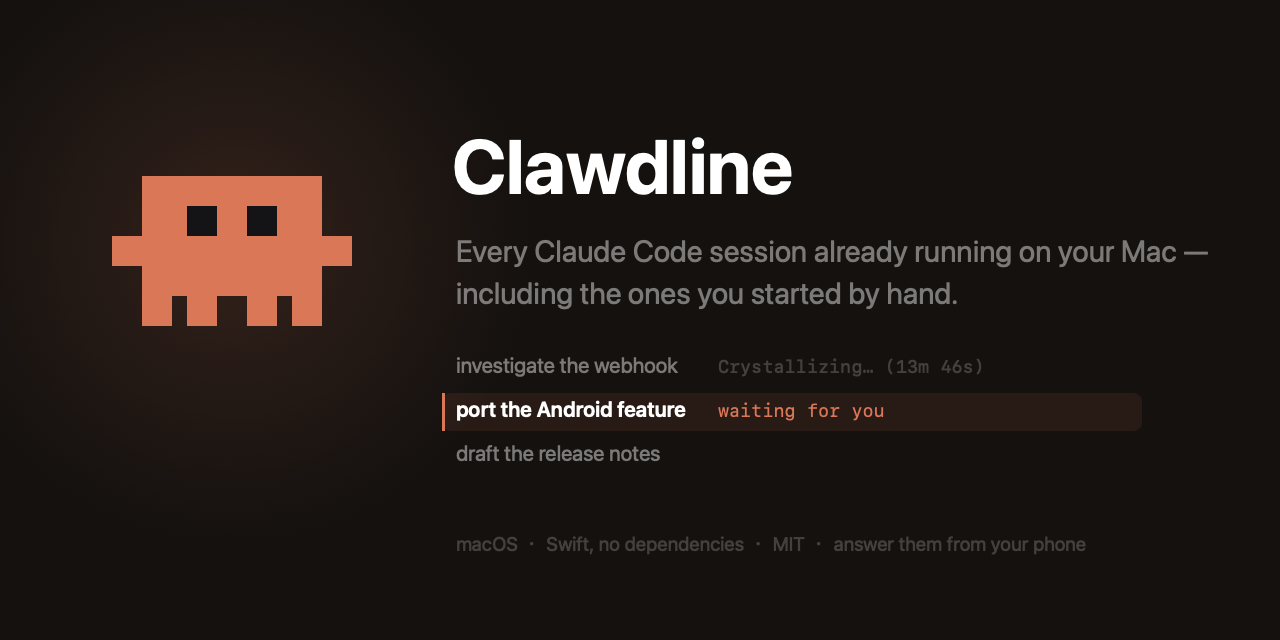
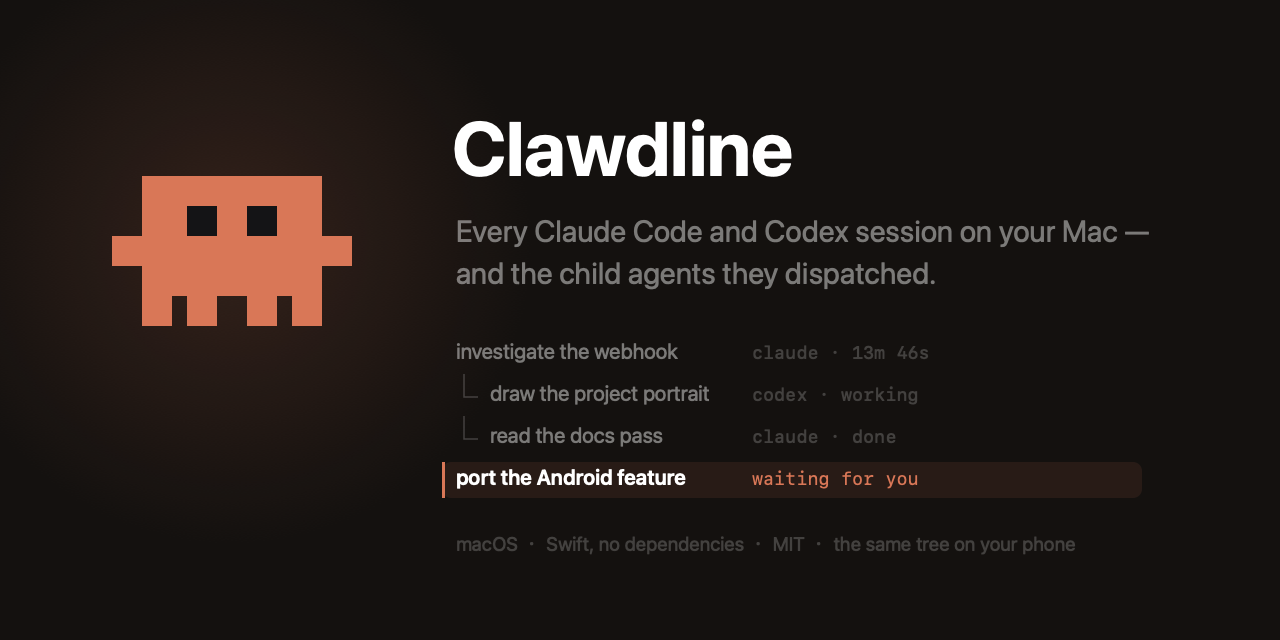
docs: the README leads with the fleet and the tree, not with one input bar
The rarest thing this does had been sitting at line 250. Every phone client for
Claude Code shows the sessions it started itself; what nothing else shows is the
shape — a session that sent work away, the children it sent, which assistant each
one is, and which of them is waiting on you. So the front of the README is that
now, and the picture at the top is the tree rather than a message being typed.

- the tagline, the opening two paragraphs and the hero picture are about the
  fleet: five agents, two of them dispatched by another session, and a row of
  tab titles that cannot draw the relation between them
- the feature table gains a first row for the tree, and the row after it stops
  repeating the sentence that row now carries
- "Handing work to another session" moves from after the phone section to
  between the features and Install, and grows from two paragraphs to five: which
  assistant can be the child, why a child is a row and not a job id, the cost it
  reports back, the credential dispatching sits behind, and depth of one
- two new pictures, both reproducible: `./tools/shoot-assets.sh fleet-phone
  fleet-wide` waits for the page's orchestrator frame to land before shooting,
  because before it does the list is flat and a flat list is what these refute
- the social card shows a root with two indented children instead of three
  unrelated rows, and says Codex out loud
- README.zh-TW.md carries all of it
[…]

diff --git a/tools/shoot-web.js b/tools/shoot-web.js
@@ -421,6 +421,66 @@ function makeStage(cdp, session) {
 
 /* ---- storyboards --------------------------------------------------------- */
 
+/**
+ * The list, once the page knows who dispatched whom.
+ *
+ * **The grouping is not there when the page opens.** The list arrives first and the page's
+ * `orchestrator` frame a moment after it, so anything shot on a timer catches six sessions in
+ * flat alphabetical order with nothing to say that two of them were started by a third — the
+ * exact opposite of the point. `data-depth` is what a row is given once it has been re-parented,
+ * so two of those is the whole fixture landed.
+ */
+async function untilTree(stage) {
+    await stage.until("#rows li");
+    const grouped = await stage.untilTrue(
+        `document.querySelectorAll('#rows li[data-depth="1"]').length >= 2`, 10000);
+    if (!grouped) throw new Error("no child came in under a root — there is no tree to photograph");
+}
+
+/** The row saying this, whatever the list has done with the order since it was last looked at. */
+function rowSaying(label) {
+    return `[...document.querySelectorAll("#rows li")]
+        .find((e) => (e.textContent || "").indexOf(${JSON.stringify(label)}) >= 0)`;
+}
+
+/**
+ * The root, at work — caught on the beat it **starts**, with the list quiet around it.
+ *
+ * The fixture walks its sessions through their states on a four-second clock, and two things
+ * about that clock decide whether this picture is worth taking.
+ *
+ * **The root spends part of the cycle idle**, and a root caught idle loses its state line: the
+ * picture becomes a session that sent two others away and then stopped, which is nobody's
+ * sentence, and is what the first two attempts at this shot came out as. Waiting for `working`
+ * alone does not fix it — whatever is left of the window the page opened in can be a second, and
+ * the framing still has to happen before the shutter. Waiting for the row to go **quiet first**
+ * is what makes the `working` that follows a fresh one, with the rest of the cycle in hand.
+ *
+ * **Sessions queue up in `waiting`**, two and three at a time, and a waiting row is orange and
+ * says it wants you — a louder claim on the eye than a tree of rows that do not. One is the
+ * list doing its job; three, stacked above the subject, is a different picture. So the second
+ * wait asks for both at once: the root still at work, and no more than one row asking. Both in
+ * one expression on purpose — checked one after the other, satisfying the second can cost the
+ * first.
+ *
+ * And the line, not just the state: `working` is set on the beat, the line under it is written by
+ * the next tick, and in between there is a spinner over an empty row.
+ */
+async function untilBusy(stage, label) {
+    const row = rowSaying(label);
+    const quiet = await stage.untilTrue(
+        `(() => { const r = ${row}; return !!r && r.dataset.state !== "working"; })()`, 45000);
+    if (!quiet) throw new Error("the root session never paused — cannot tell a fresh turn from the end of one");
+    const busy = await stage.untilTrue(`(() => {
+        const r = ${row};
+        if (!r || r.dataset.state !== "working") return false;
+        const line = r.querySelector(".state .line");
+        if (!line || !line.textContent.trim()) return false;
+        return document.querySelectorAll('#rows li[data-state="waiting"]').length <= 1;
+    })()`, 45000);
+    if (!busy) throw new Error("the root session never went back to work with the list quiet around it");
+}
+
 const SCRIPTS = {
     /**
      * The interface, on a phone.
@@ -466,6 +526,43 @@ const SCRIPTS = {
         await stage.wait(600);
         await stage.tap("#send");
         await stage.wait(2200);
+    },
+
+    /**
+     * The tree: one session and the work it sent away, hanging under it.
+     *
+     * Framed on the lower child rather than on the root, because scrolling the *last* row of the
+     * group into the middle is the only framing that guarantees the two above it came with it.
+     */
+    async fleet(stage) {
+        await untilTree(stage);
+        await untilBusy(stage, "investigate the webhook");
+        // Framed after the root has its line back, so the measuring is done on the layout that
+        // gets photographed rather than on the shorter one it grew out of.
+        await stage.reveal('#rows li[data-depth="1"]', 1, 700);
+        await stage.wait(OPT.dwell);
+    },
+
+    /**
+     * The same tree at a laptop's width, where the list and a transcript are on screen together.
+     *
+     * The session that gets opened is the **root** of the group: the left pane then says who
+     * dispatched whom and the right pane says what that session is doing with itself, which is
+     * the pair of facts the wide layout exists to hold. Opened by label and checked afterwards,
+     * for the reason `openSaying` exists — the list re-sorts under the press.
+     */
+    "fleet-wide": async (stage) => {
+        await untilTree(stage);
+        await stage.wait(500);
+        await stage.tapSaying("#rows li", "investigate the webhook");
+        if (!await stage.untilSays("#detail-name", "investigate the webhook", 5000)) {
+            throw new Error("the root session did not open — the list moved under the press");
+        }
+        // A real entry, not the skeleton the transcript draws out of the same elements while it
+        // is loading: wait on `.entry` alone and the still is of grey bars.
+        await stage.until("#tx .entry:not(.skel-entry)");
+        await untilBusy(stage, "investigate the webhook");
+        await stage.wait(OPT.dwell);
     },
 
     /**

diff --git a/tools/make-social.swift b/tools/make-social.swift
@@ -88,37 +88,50 @@ func draw(_ s: String, _ x: CGFloat, _ y: CGFloat, _ size: CGFloat,
 
 // The name, then the one sentence. **The sentence is the fenced claim**, not a feature list:
 // this card is read at a glance and only one idea survives that.
-draw("Clawdline", 452, 430, 76, .white, weight: .bold)
-draw("Every Claude Code session already running on your Mac —", 456, 372, 30, quiet)
-draw("including the ones you started by hand.", 456, 330, 30, quiet)
+draw("Clawdline", 452, 448, 76, .white, weight: .bold)
+draw("Every Claude Code and Codex session on your Mac —", 456, 392, 30, quiet)
+draw("and the child agents they dispatched.", 456, 350, 30, quiet)
 
-// Three rows of the list, drawn rather than screenshotted, because at feed size a real screenshot
-// of this would be an illegible grey block. One of them is waiting, in the accent colour, because
-// that state is the entire argument for the product.
-let listX: CGFloat = 456, listTop: CGFloat = 262
-let items: [(String, String, NSColor)] = [
-    ("investigate the webhook", "Crystallizing… (13m 46s)", faint),
-    ("port the Android feature", "waiting for you", body),
-    ("draft the release notes", "", faint),
+// Four rows of the list, drawn rather than screenshotted, because at feed size a real screenshot
+// of this would be an illegible grey block. Two of them are indented under the first, because the
+// shape of the list — who sent whom — is the claim this card is making; and one is waiting, in the
+// accent colour, because that state is the entire argument for the product.
+let listX: CGFloat = 456, listTop: CGFloat = 276, step: CGFloat = 42
+let items: [(String, String, NSColor, Bool)] = [
+    ("investigate the webhook",    "claude · 13m 46s",   faint, false),
+    ("draw the project portrait",  "codex · working",    faint, true),
+    ("read the docs pass",         "claude · done",      faint, true),
+    ("port the Android feature",   "waiting for you",    body,  false),
 ]
 for (i, item) in items.enumerated() {
-    let y = listTop - CGFloat(i) * 44
+    let indent: CGFloat = item.3 ? 34 : 0
+    let x = listX + indent
+    let y = listTop - CGFloat(i) * step
     if item.2 == body {
         body.withAlphaComponent(0.10).setFill()
-        NSBezierPath(roundedRect: NSRect(x: listX - 14, y: y - 9, width: 700, height: 38),
+        NSBezierPath(roundedRect: NSRect(x: x - 14, y: y - 8, width: 700 - indent, height: 36),
                      xRadius: 9, yRadius: 9).fill()
         body.setFill()
-        NSRect(x: listX - 14, y: y - 9, width: 3, height: 38).fill()
+        NSRect(x: x - 14, y: y - 8, width: 3, height: 36).fill()
     }
-    draw(item.0, listX, y, 21, item.2 == body ? .white : quiet,
+    // The elbow that says this row belongs to the one above it. Drawn rather than typed, because
+    // a box-drawing character lands on a different baseline in every font that has one.
+    if item.3 {
+        faint.setStroke()
+        let elbow = NSBezierPath()
+        elbow.lineWidth = 1.5
+        elbow.move(to: NSPoint(x: listX + 8, y: y + step - 10))
+        elbow.line(to: NSPoint(x: listX + 8, y: y + 9))
+        elbow.line(to: NSPoint(x: listX + 22, y: y + 9))
+        elbow.stroke()
+    }
+    draw(item.0, x, y, 21, item.2 == body ? .white : quiet,
          weight: item.2 == body ? .semibold : .regular)
-    if !item.1.isEmpty {
-        draw(item.1, listX + 262, y + 1, 18, item.2, mono: true)
-    }
+    draw(item.1, listX + 296, y + 1, 18, item.2, mono: true)
 }
 
 // The claims that make somebody trust it, small, along the bottom.
-draw("macOS  ·  Swift, no dependencies  ·  MIT  ·  answer them from your phone",
+draw("macOS  ·  Swift, no dependencies  ·  MIT  ·  the same tree on your phone",
      456, 84, 19, faint)
 
 NSGraphicsContext.restoreGraphicsState()

diff --git a/README.md b/README.md
@@ -1,6 +1,7 @@
 # Clawdline
 
-**One bar for every Claude Code and Codex session already running on your Mac.**
+**Every Claude Code and Codex session on your Mac — including the child agents your sessions
+dispatched — as one live tree, on your Mac and on your phone.**
 
 [![License](https://img.shields.io/badge/license-MIT-blue.svg)](LICENSE)
 [![Platform](https://img.shields.io/badge/macOS-13%2B-black.svg)](#install)
@@ -9,18 +10,20 @@
 
 English · [繁體中文](README.zh-TW.md)
 
-<img src="docs/assets/demo.gif" width="760" alt="Press Option-Space, type, press Enter. The message lands in Claude Code.">
+<img src="docs/assets/fleet-wide.png" width="760" alt="Clawdline in a browser: every Claude Code and Codex session on the Mac in one list, the sessions that were dispatched by another session indented under it, and the transcript of the selected one beside the list.">
 
-Claude Code draws its input box at the bottom of a terminal window. That is fine for one session.
-With four, the day is spent walking *to* sessions: to say anything to one, you find its tab; to
-learn whether it is still working, you find its tab; and what you are choosing from is a row of tab
-titles, which are *tasks* — two projects can be working on tasks that read alike. There is no
-setting for this and no plugin can fix it: plugins add commands, agents, hooks, MCP servers and
-skills, not TUI layout.
+Nobody runs one coding agent for long. By the afternoon there are five, and two of them were not
+started by you — a session decided the diff wanted a second reader and sent one off. What you have
+then is not a row of terminals. It is a fleet with a shape: which of them is working, which is
+stuck on a question, which assistant each one is, and **which of them asked for which**. A terminal
+window cannot show you any of that. It offers tab titles, and a tab title is a *task* — two
+projects can be working on tasks that read alike — and no plugin can fix it, because plugins add
+commands, agents, hooks, MCP servers and skills, not TUI layout.
 
-Clawdline is one place for all of them. Press <kbd>⌥</kbd><kbd>Space</kbd>, type, and the message
-lands in the session you point it at. Press <kbd>⌘</kbd><kbd>K</kbd> and every session becomes a row
-that says what it is doing: **working, finished, or waiting for an answer.**
+Clawdline draws the shape and lets you act on it. Press <kbd>⌘</kbd><kbd>K</kbd> and every session
+is a row that says what it is doing — **working, finished, or waiting for an answer** — with the
+sessions a session sent away indented underneath it. Press <kbd>⌥</kbd><kbd>Space</kbd>, type, and
+the message lands in whichever of them you point at.
 
 **Nothing is installed into Claude Code or Codex.** No hooks, no MCP server, no wrapper around
 the `claude` or `codex` command, no edits to your settings. Clawdline reads the screens your sessions
@@ -29,7 +32,9 @@ started by hand an hour ago appear in the list too, not just the ones something 
 iTerm2 is supported directly; every other terminal works through tmux.
 
 **Codex sessions are in the same list**, on the same terms: what each is doing, what it has said,
-what you send it, and opening a new one. [The whole of what that means →](#codex-in-the-same-bar)
+what you send it, and opening a new one — and either assistant can be on either end of a dispatch,
+so a Claude Code session can send work to a Codex child, or the other way round.
+[The whole of what that means →](#codex-in-the-same-bar)
 
 Nothing to migrate, nothing to undo. Quit it and your setup is exactly as it was.
 
@@ -37,7 +42,8 @@ Nothing to migrate, nothing to undo. Quit it and your setup is exactly as it was
 
 | | |
 | --- | --- |
-| **Which session wants you** `⌘K`<br><br>Every session in one list. A working session carries the live line Claude Code draws for itself; a session with a question on screen is the loud one, because that is the only state costing you something for every second it goes unnoticed. Each row wears its project's own mark.<br><br>[How each state is decided →](docs/interface.md#which-session-wants-you) | <img src="docs/assets/sessions-live.gif" width="380" alt="The session list, live: the selection walks down it, one session is answered and goes quiet, another finishes, and a third starts asking."> |
+| **The fleet, and who dispatched whom** `⌘K`<br><br>Every Claude Code and Codex session on the Mac in one list — the ones you opened yourself, and the ones a session dispatched sitting indented under whoever asked for them. One glance answers what a row of tabs cannot: which of them is waiting on you, and which of them is another session's errand.<br><br>[Handing work to another session →](#handing-work-to-another-session) | <img src="docs/assets/fleet-phone.png" width="300" alt="The session list on a phone: parent sessions each with a dispatched child indented beneath, one child running Claude Code and one running Codex, and the session that is waiting for an answer picked out in the accent colour."> |
+| **Which session wants you** `⌘K`<br><br>A working session carries the live line Claude Code draws for itself; a session with a question on screen is the loud one, because that is the only state costing you something for every second it goes unnoticed. Each row wears its project's own mark.<br><br>[How each state is decided →](docs/interface.md#which-session-wants-you) | <img src="docs/assets/sessions-live.gif" width="380" alt="The session list, live: the selection walks down it, one session is answered and goes quiet, another finishes, and a third starts asking."> |
 | **Read a session back** `⌘J`<br><br>Not a screenshot of a terminal. Clawdline reads the session's transcript file, so you get real message boundaries, full history, headings, bordered tables and code — with finished runs of tool calls folded to one line each. `⌘F` fills the screen.<br><br>[What the pane does →](docs/interface.md#reading-a-session-back) | <img src="docs/assets/transcript.png" width="380" alt="The transcript pane: a heading, a bordered table and a code block, laid out rather than scraped."> |
 | **The same sessions on your phone**<br><br>Your Mac serves a page; your phone opens it and reads every session, transcript and all — and types into them if you arm the second switch. Off by default, bound to loopback, every device paired by a code shown only on the Mac. Reaching it from outside is `cloudflared`, which is your own install.<br><br>[From a browser, or your phone →](#from-a-browser-or-your-phone) | <img src="docs/assets/web-wide.png" width="380" alt="The same page on a laptop: the session list down the left with the one that is waiting picked out in the accent colour, its transcript beside it, and a box to type in underneath."> |
 | **Dictation that keeps up with two languages**<br><br>Words appear as you speak, and the recogniser is fed your own prompt history, so `webhook` and `rebase` survive being said inside a Chinese sentence. Claude Code's own `/voice` streams audio to Anthropic's servers, needs a Claude.ai account, and [does not support Chinese](docs/compatibility.md#claude-code-has-its-own-dictation-now). Add [Whisper](docs/whisper.md) — one `brew install` — and a second pass reads the same audio back, so one sentence can hold two languages.<br><br>[What it does while you talk →](docs/interface.md#talk-instead-of-type) | <img src="docs/assets/voice.gif" width="380" alt="Speaking into the bar: the words appear live, then Whisper reads the recording back and replaces them."> |
@@ -90,6 +96,38 @@ Also:
 > *"Connect this project to Clawdline — https://github.com/sainteye/clawdline"* is the whole
 > instruction.
 
+## Handing work to another session
+
+A session you are talking to is a session you are waiting on, and some of what gets asked for —
+draw this, run the suite, read this diff — does not need the conversation it was asked in. A
+session holding the `clawdline` skill writes the task down and asks the app to run it. Clawdline
+opens a terminal tab, starts the assistant the task named, types the briefing into it, watches for
+the child's answer, adds up what it spent, and tells the session that asked.
+
+<img src="docs/assets/dispatch.webp" width="760" alt="One session hands three cards of work to three others, each of which goes off to a machine of its own, and the last thread ends at a phone lighting up.">
+
+**The child can be either assistant.** One Claude Code session can send the drawing to a Codex
+child and the diff to a Claude Code one in the same breath; what the app has to know is which
+binary to start and which screen to read afterwards, and it knows both already — which is why one
+Mac runs a mixed fleet without a framework in the middle of it. Dispatching is a plain local HTTP
+route, so anything running as you can ask for a child; the skill that writes the task down ships
+for Claude Code.
+
+**A dispatched agent you cannot see is a background job; one you can watch, answer and stop is a
+session.** So a child here is not a job id in a queue. It is a row in the same list as everything
+else, indented under the session that asked for it, carrying its own state, its own transcript and
+its own token count — on the Mac and on the phone, where you can read what it is doing, answer the
+question it is stuck on, or end it. What it spent is added up per task, in tokens and, where the
+model has a published price, in dollars.
+
+**Dispatching has a door of its own.** It sits behind a `0600` file only a local process can read,
+so a paired phone can watch the tasks and never start one — typing into a session and spawning
+three more are not the same right. And **depth is one**: a session this app briefed as a child
+cannot dispatch tasks of its own, which is the difference between a fleet and a fork bomb.
+
+**[docs/orchestrator.md](docs/orchestrator.md)** is the protocol: the file formats, the
+credentials, the lifecycle and the routes with `curl` transcripts.
+
 ## Install
 
 **Homebrew**
@@ -131,6 +169,8 @@ cannot send anything without that. Menu bar ✳ → **Launch at login** makes it
 
 Press <kbd>⌥</kbd><kbd>Space</kbd> in iTerm2, type, press <kbd>Enter</kbd>.
 
+<img src="docs/assets/demo.gif" width="760" alt="Press Option-Space, type, press Enter. The message lands in Claude Code without the terminal coming to the front.">
+
 | Key | Action |
 | --- | --- |
 | <kbd>⌥</kbd><kbd>Space</kbd> | Show / hide the bar |
@@ -162,6 +202,12 @@ will not tell you where the text goes is worse than no prompt box at all.
 
 Turn it on in **Settings → Remote**. If the browser is on this Mac, *Open in a browser* mints a
 device and opens the page already signed in. For a phone, *Pair a phone…* draws a QR code.
+
+**The page is the same fleet, not a cut-down one.** Every session the Mac can see is on it, grouped
+the same way — a dispatched child indented under the session that asked for it — with each one's
+transcript, its state, the question it is stuck on and a box to answer it from. A phone that can
+type can also start a session and end one; what it cannot do is dispatch, which is
+[a separate credential this Mac never serves](#handing-work-to-another-session).
 
 <img src="docs/assets/web.gif" width="300" alt="The page on a phone: six sessions, each with its project's mark, and the one that is asking pulled out in the accent colour. Then another session's transcript, where a run of two tool calls sits folded to one line until it is opened; then a reply typed into the box at the bottom and sent.">
 
@@ -201,19 +247,6 @@ opens the same skill menu the bar has, over the same metadata-only route.
 **[docs/remote.md](docs/remote.md)** has the threat model in full, including what this does *not*
 defend against. **[docs/api.md](docs/api.md)** is the HTTP surface a script or a plugin talks to:
 every session, every transcript, an event stream, and `curl` as the only SDK.
-
-## Handing work to another session
-
-A session you are talking to is a session you are waiting on, and some of what gets asked for — draw
-this, run the suite, read this diff — does not need the conversation it was asked in. A session
-holding the `clawdline` skill can write the task down and ask the app to run it: Clawdline opens a
-terminal tab, types the briefing into it, watches for the child's answer, adds up what it spent and
-tells the session that asked. Dispatching sits behind a credential of its own — a `0600` file only a
-local process can read — so a paired phone can watch the tasks and never start one, and a session
-this app briefed as a child cannot dispatch tasks of its own.
-
-**[docs/orchestrator.md](docs/orchestrator.md)** is the protocol: the file formats, the two
-credentials, the lifecycle and the routes with `curl` transcripts.
 
 ## How it works
 
@@ -411,11 +444,11 @@ Everything the app does is logged to `~/Library/Logs/Clawdline.log`.
 | | |
 | --- | --- |
 | [The bar, up close](docs/interface.md) | the session list, the <kbd>⌘</kbd><kbd>J</kbd> pane, dictation, files, the notch |
+| [Handing work off](docs/orchestrator.md) | one session dispatching another: the protocol, the credentials, the lifecycle |
 | [Connecting a project](docs/connect.md) | written for an agent: the files to create and how to check them |
 | [The dev stack](docs/devstack.md) · [adopting it](docs/devstack-adopting.md) | `.devstack.json`, and the three heights of adopting it |
 | [Project status files](docs/project-status.md) | the mark, the colour, the deploy, the backlog |
 | [From somewhere else](docs/remote.md) · [the API](docs/api.md) | the threat model in full, and the HTTP surface |
-| [Handing work off](docs/orchestrator.md) | one session dispatching another, and the two credentials that gate it |
 | [Hooks](docs/hooks.md) | the five events, and why the screen still decides |
 | [Whisper](docs/whisper.md) | dictating in more than one language |
 | [Mascot packs](docs/mascots.md) · [gallery](docs/gallery.md) | the format, and where packs get posted |
